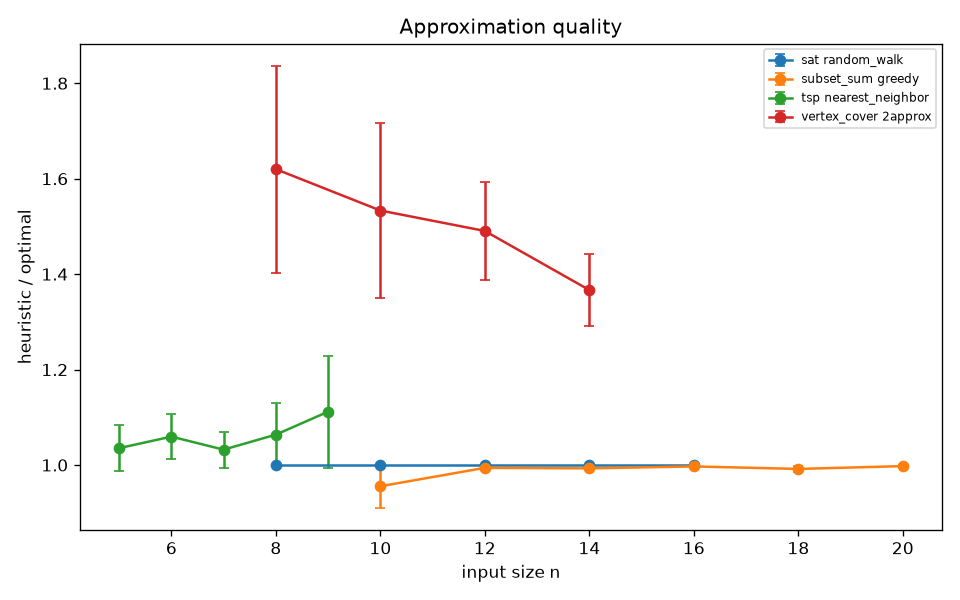
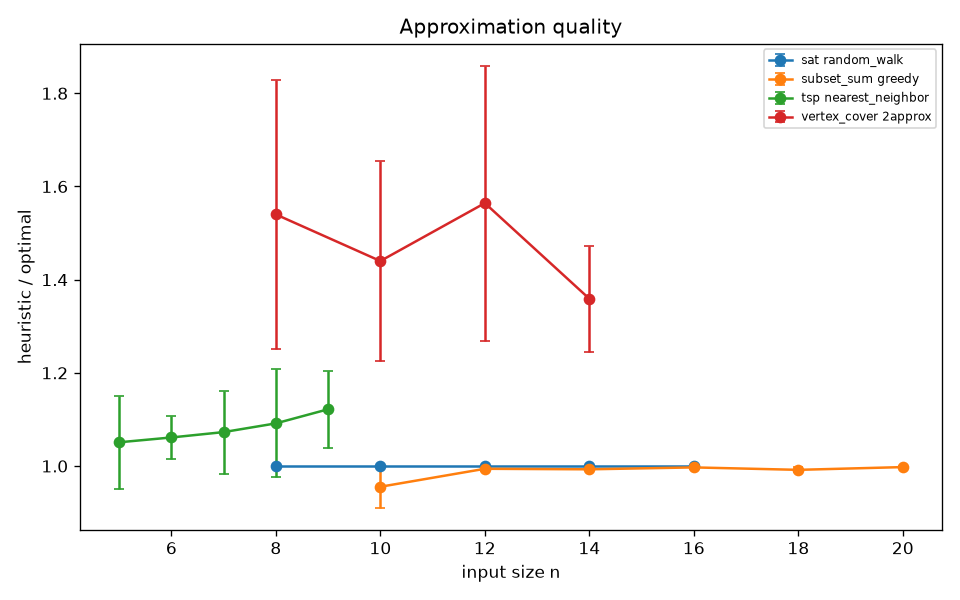
Add worst-case subset sum benchmark with no solution

diff --git a/benchmarks/week8_complexity_benchmark.py b/benchmarks/week8_complexity_benchmark.py
@@ -50,7 +50,18 @@ def main() -> None:
         add("subset_sum", "backtracking", n, es, [1.0] * TRIALS)
         add("subset_sum", "greedy", n, gs, gr)
         print("subset sum done n =", n)
-
+    for n in SUBSET_SIZES:
+        ws = []
+        for _ in range(TRIALS):
+            nums = [2 * rng.randint(1, 500) for _ in range(n)]
+            target = sum(nums) // 2 + 1
+            if target % 2 == 0:
+                target += 1
+            t, ans = time_call(subset_sum_backtracking, nums, target, repeats=1)
+            assert ans is None
+            ws.append(t)
+        add("subset_sum_worst", "backtracking", n, ws, [1.0] * TRIALS)
+        print("subset sum worst case done n =", n)
     for n in SAT_VARS:
         es, ws, wr = [], [], []
         for _ in range(TRIALS):
